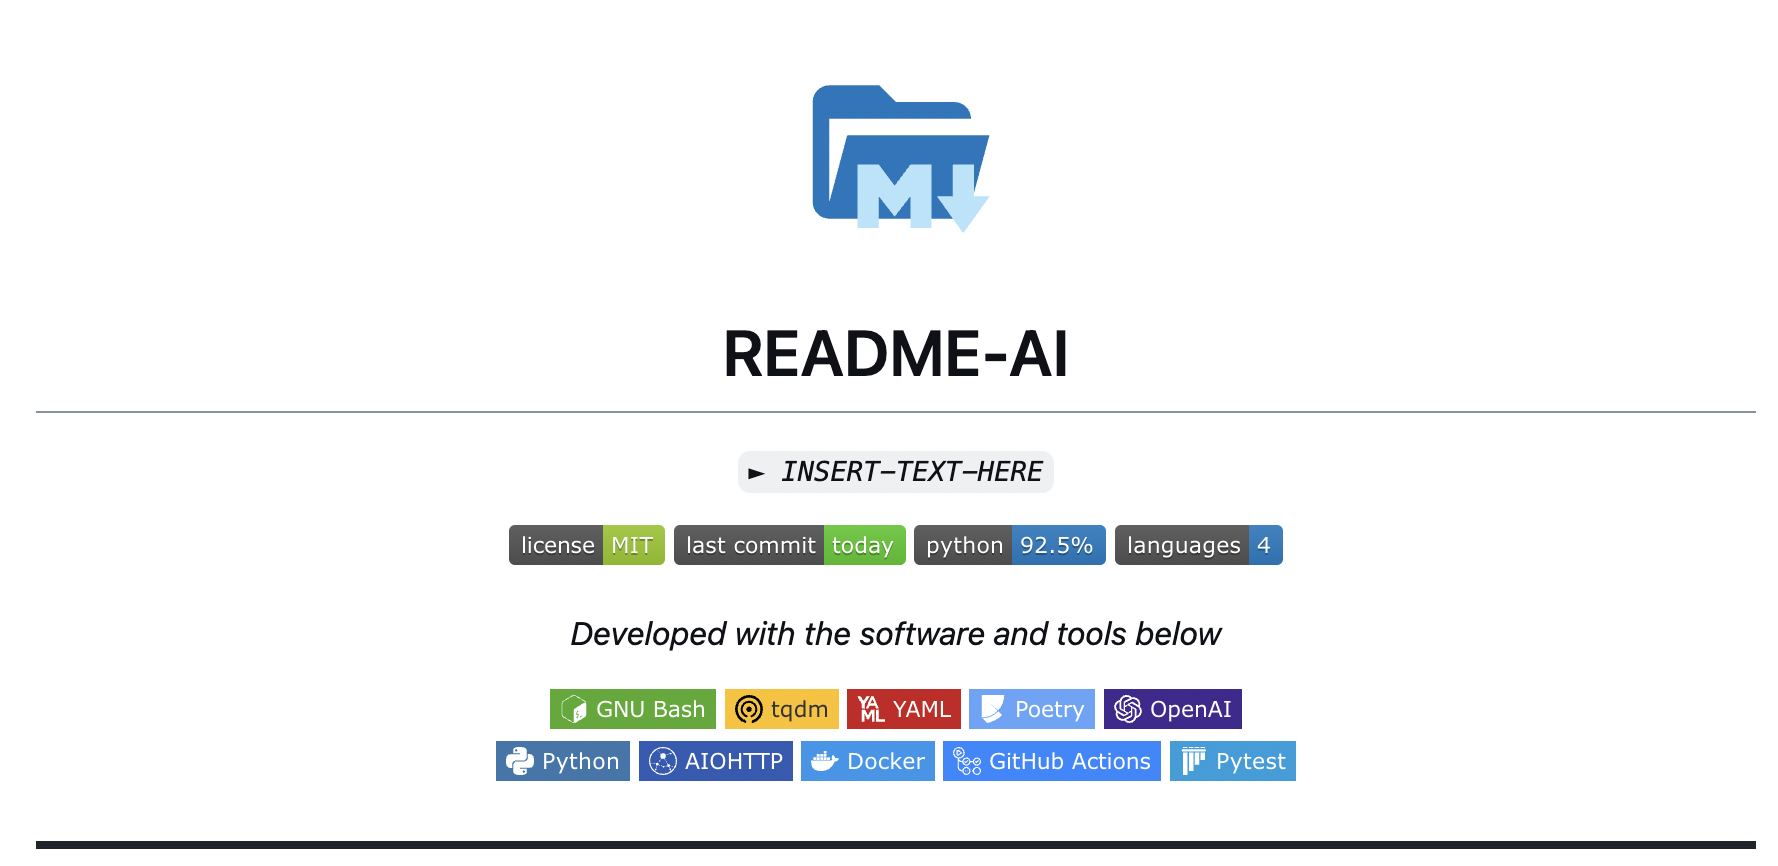
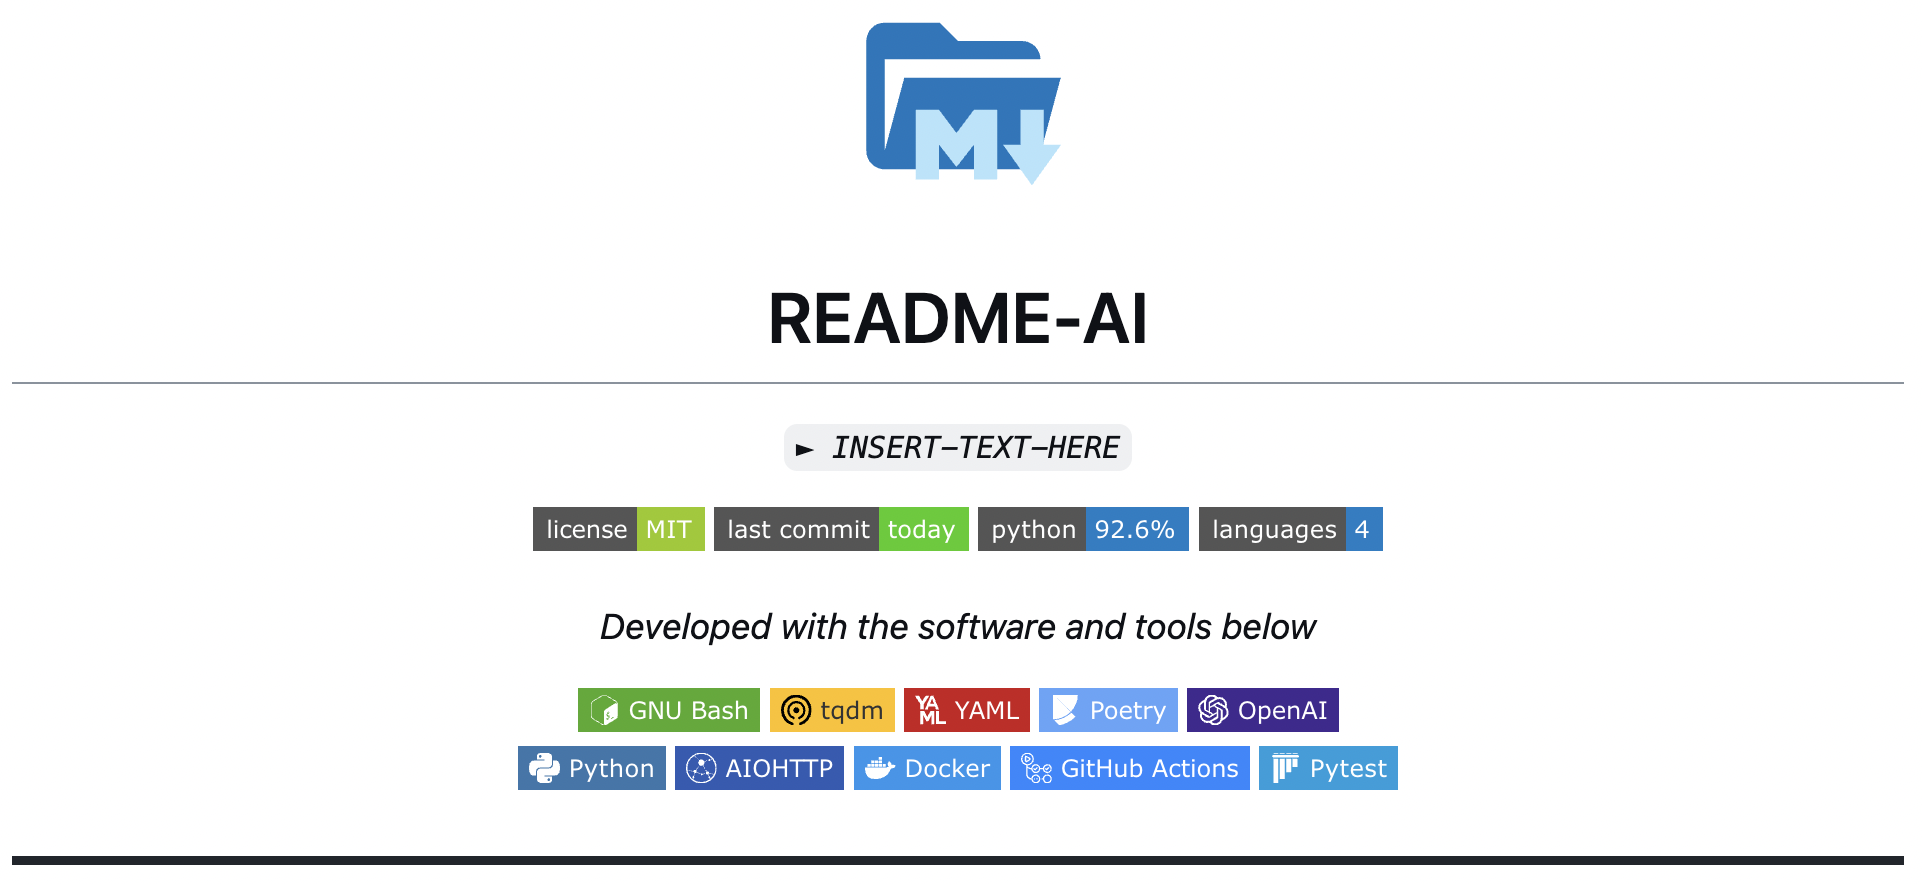
Add additional example readme file.

diff --git a/README.md b/README.md
@@ -99,15 +99,18 @@ Below are a few examples of README headers generated by the readme-ai tool.
 <table>
   <tr>
     <td align="center"><img src="https://raw.githubusercontent.com/eli64s/readme-ai/main/examples/images/header-flat.png" alt="flat" width="400"/><br><code>--badges flat --image black</code></td>
-    <td align="center"><img src="https://raw.githubusercontent.com/eli64s/readme-ai/main/examples/images/header-purple.png" alt="large-repo" width="400"/><br><code>--align left --badges flat --image purple</code></td>
+    <td align="center"><img src="https://raw.githubusercontent.com/eli64s/readme-ai/main/examples/images/header-offline.png" alt="flat" width="400"/><br><code>--badges flat-square --image blue --offline</code></td>
   </tr>
   <tr>
-    <td align="center"><img src="https://github.com/eli64s/readme-ai/blob/main/examples/images/header-skills-dark.png" alt="skills" width="400"/><br><code>--align left --badges skills --image yellow</code></td>
     <td align="center"><img src="https://github.com/eli64s/readme-ai/blob/main/examples/images/header-plastic.png" alt="plastic" width="400"/><br><code>--badges plastic --image grey</code></td>
+    <td align="center"><img src="https://raw.githubusercontent.com/eli64s/readme-ai/main/examples/images/header-default.png" alt="offline" width="400"/><br><code>default output</code></td>
   </tr>
   <tr>
     <td align="center"><img src="https://raw.githubusercontent.com/eli64s/readme-ai/main/examples/images/header-skills-light.png" alt="skills-light" width="400"/><br><code>--badges skills-light --image grey</code></td>
-    <td align="center"><img src="https://raw.githubusercontent.com/eli64s/readme-ai/main/examples/images/header-default.png" alt="offline" width="400"/><br><code>default output</code></td>
+    <td align="center"><img src="https://github.com/eli64s/readme-ai/blob/main/examples/images/header-skills-dark.png" alt="skills" width="400"/><br><code>--align left --badges skills --image yellow</code></td>
+  </tr>
+  <tr>
+    <td colspan="2" align="center"><img src="https://raw.githubusercontent.com/eli64s/readme-ai/main/examples/images/header-purple.png" alt="large-repo" width="800"/><br><code>--align left --badges flat --image purple</code></td>
   </tr>
 </table>
 

diff --git a/examples/markdown/readme-offline.md b/examples/markdown/readme-offline.md
@@ -9,13 +9,13 @@
     <em><code>► INSERT-TEXT-HERE</code></em>
 </p>
 <p align="center">
-	<img src="https://img.shields.io/github/license/eli64s/readme-ai?style=flat" alt="license">
-	<img src="https://img.shields.io/github/last-commit/eli64s/readme-ai?style=flat" alt="last-commit">
-	<img src="https://img.shields.io/github/languages/top/eli64s/readme-ai?style=flat" alt="repo-top-language">
-	<img src="https://img.shields.io/github/languages/count/eli64s/readme-ai?style=flat" alt="repo-language-count">
+	<img src="https://img.shields.io/github/license/eli64s/readme-ai?style=flat-square" alt="license">
+	<img src="https://img.shields.io/github/last-commit/eli64s/readme-ai?style=flat-square" alt="last-commit">
+	<img src="https://img.shields.io/github/languages/top/eli64s/readme-ai?style=flat-square" alt="repo-top-language">
+	<img src="https://img.shields.io/github/languages/count/eli64s/readme-ai?style=flat-square" alt="repo-language-count">
 <p>
 <p align="center">
-    <em>Developed with the software and tools below</em>
+		<em>Developed with the software and tools below</em>
 </p>
 <p align="center">
 	<img src="https://img.shields.io/badge/GNU%20Bash-4EAA25.svg?style=flat-square&logo=GNU-Bash&logoColor=white" alt="GNU%20Bash">
@@ -28,7 +28,8 @@
 	<img src="https://img.shields.io/badge/AIOHTTP-2C5BB4.svg?style=flat-square&logo=AIOHTTP&logoColor=white" alt="AIOHTTP">
 	<img src="https://img.shields.io/badge/Docker-2496ED.svg?style=flat-square&logo=Docker&logoColor=white" alt="Docker">
 	<img src="https://img.shields.io/badge/GitHub%20Actions-2088FF.svg?style=flat-square&logo=GitHub-Actions&logoColor=white" alt="GitHub%20Actions">
-	<img src="https://img.shields.io/badge/Pytest-0A9EDC.svg?style=flat-square&logo=Pytest&logoColor=white" alt="Pytest"></p>
+	<img src="https://img.shields.io/badge/Pytest-0A9EDC.svg?style=flat-square&logo=Pytest&logoColor=white" alt="Pytest">
+</p>
 </div>
 <hr>
 
